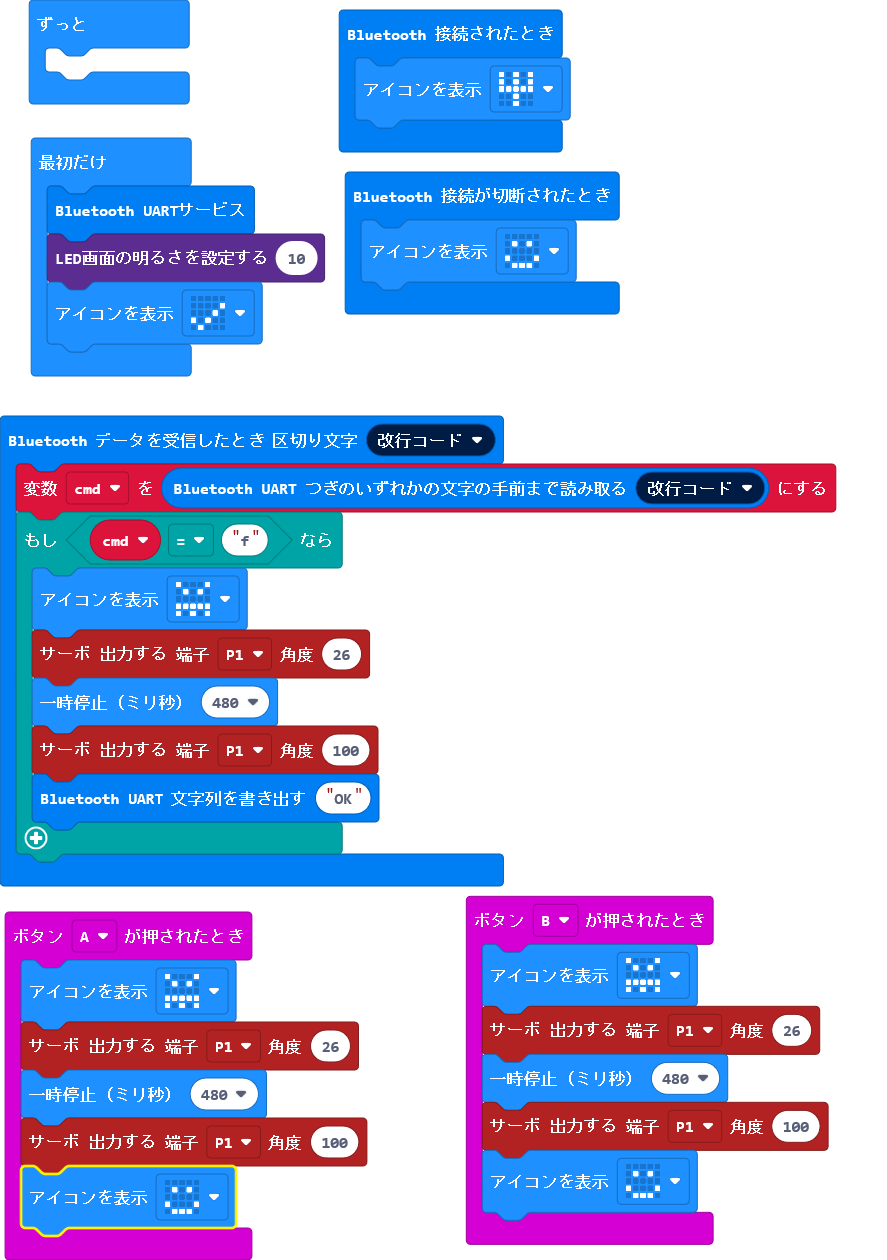
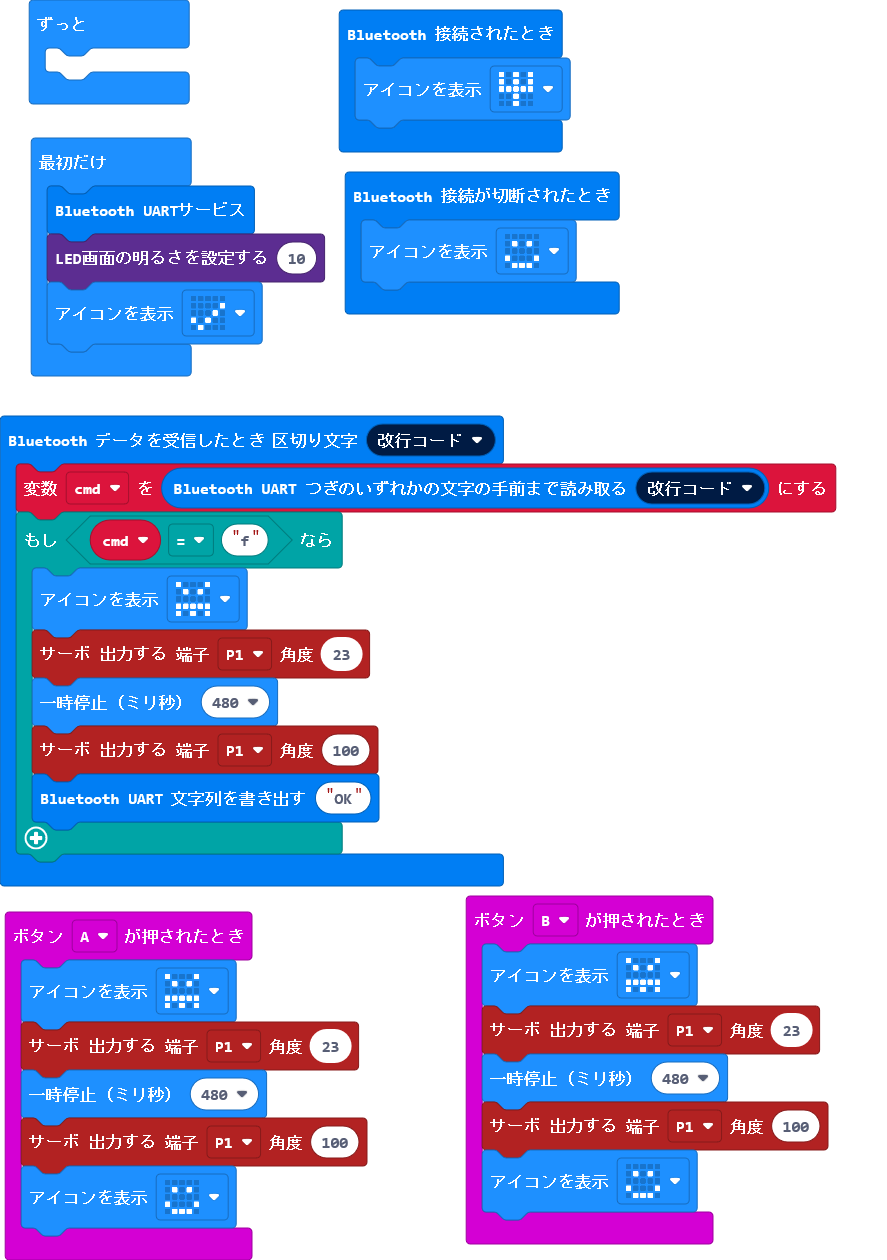
更新 main.blocks, main.ts

diff --git a/main.ts b/main.ts
@@ -6,7 +6,7 @@ bluetooth.onBluetoothDisconnected(function () {
 })
 input.onButtonPressed(Button.A, function () {
     basic.showIcon(IconNames.Angry)
-    pins.servoWritePin(AnalogPin.P1, 26)
+    pins.servoWritePin(AnalogPin.P1, 23)
     basic.pause(480)
     pins.servoWritePin(AnalogPin.P1, 100)
     basic.showIcon(IconNames.Happy)
@@ -15,7 +15,7 @@ bluetooth.onUartDataReceived(serial.delimiters(Delimiters.NewLine), function () 
     cmd = bluetooth.uartReadUntil(serial.delimiters(Delimiters.NewLine))
     if (cmd == "f") {
         basic.showIcon(IconNames.Angry)
-        pins.servoWritePin(AnalogPin.P1, 26)
+        pins.servoWritePin(AnalogPin.P1, 23)
         basic.pause(480)
         pins.servoWritePin(AnalogPin.P1, 100)
         bluetooth.uartWriteString("OK")
@@ -23,7 +23,7 @@ bluetooth.onUartDataReceived(serial.delimiters(Delimiters.NewLine), function () 
 })
 input.onButtonPressed(Button.B, function () {
     basic.showIcon(IconNames.Angry)
-    pins.servoWritePin(AnalogPin.P1, 26)
+    pins.servoWritePin(AnalogPin.P1, 23)
     basic.pause(480)
     pins.servoWritePin(AnalogPin.P1, 100)
     basic.showIcon(IconNames.Happy)
